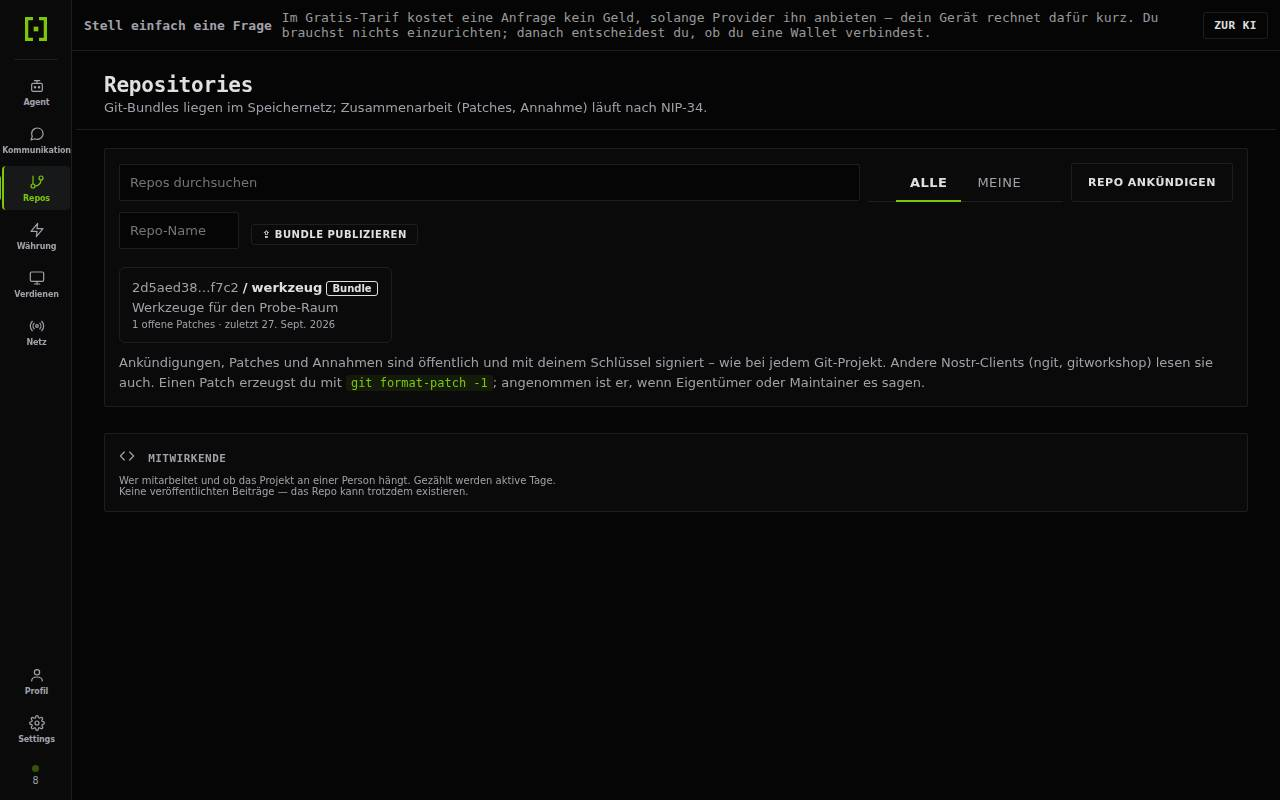
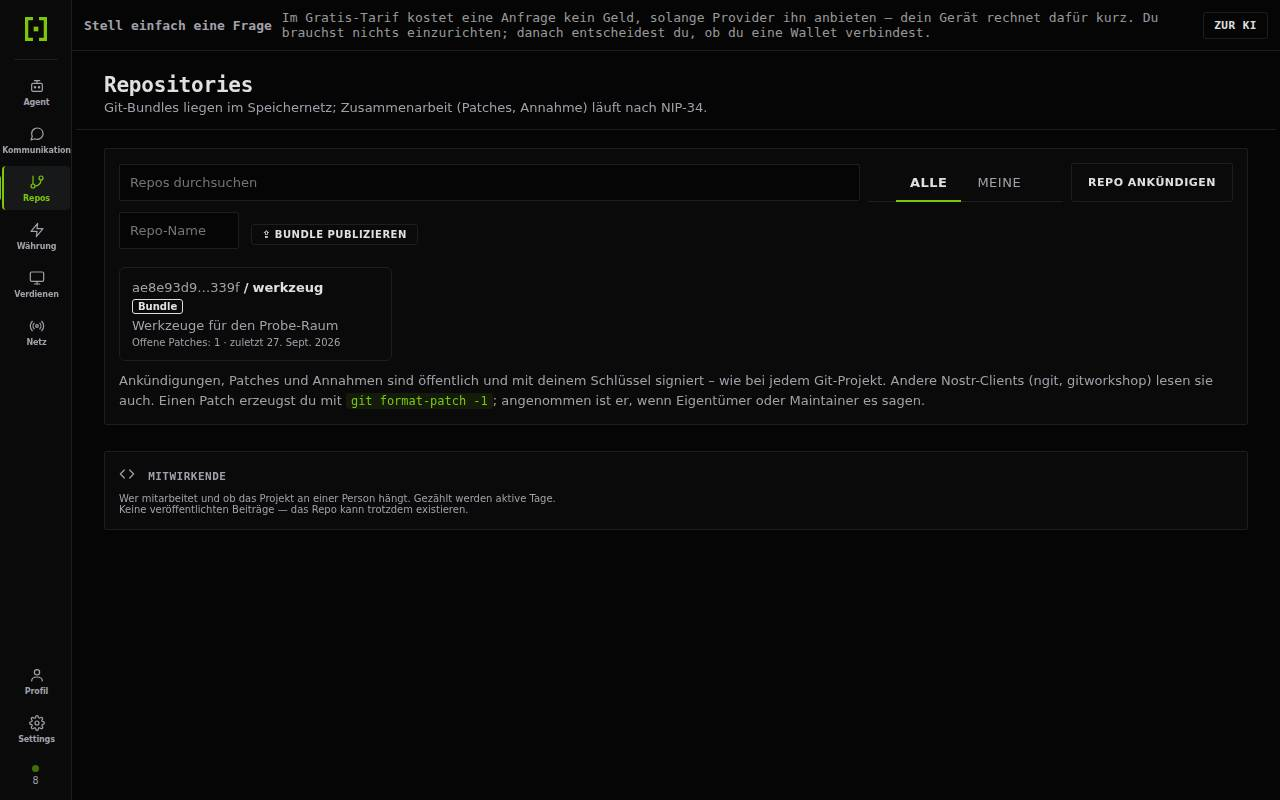
C.3a1: „Offene Patches: n“ statt „1 offene Patches“
Claude-Session: https://claude.ai/code/session_01S4oZLSEs28kPfAwsy6ojjC

Changed region(s): [[0.0938, 0.3438, 0.9375, 0.5312], [0.0938, 0.5625, 0.4375, 0.6562]]

diff --git a/packages/app/src/texte/repos.ts b/packages/app/src/texte/repos.ts
@@ -8,7 +8,7 @@ export const repos: Texte = {
   "repo.meine": { de: "Meine", en: "Mine" },
   "repo.nichtsGefunden": { de: "Kein Repo passt zur Suche.", en: "No repo matches the search." },
   "repo.markeBundle": { de: "Bundle", en: "Bundle" },
-  "repo.karteFuss": { de: "{n} offene Patches · zuletzt {datum}", en: "{n} open patches · last {datum}" },
+  "repo.karteFuss": { de: "Offene Patches: {n} · zuletzt {datum}", en: "Open patches: {n} · last {datum}" },
   "repo.beschreibung": { de: "Beschreibung (optional)", en: "Description (optional)" },
   "repo.alleRepos": { de: "‹ Alle Repos", en: "‹ All repos" },
   "repo.maintainer": { de: "Maintainer: {namen}", en: "Maintainers: {namen}" },
